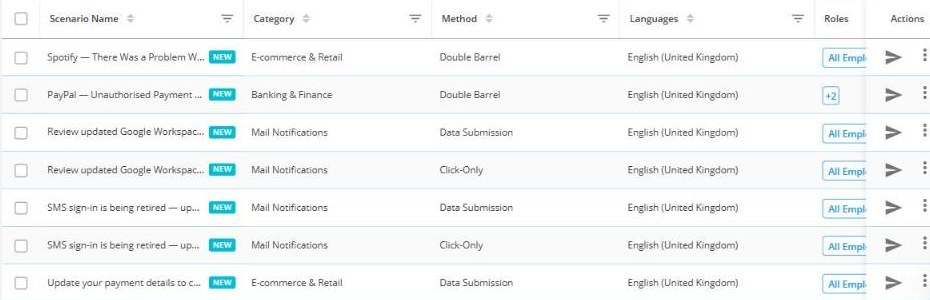
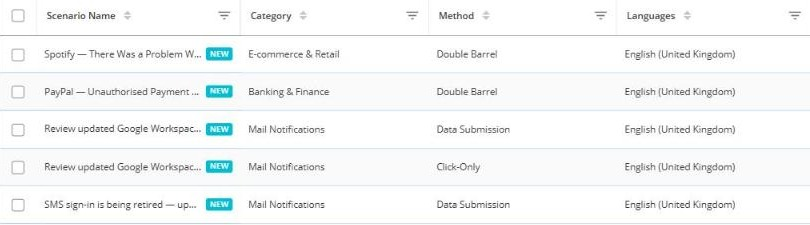
Tiklayinca buyutme, tablo ekranlari tam genislik, daha okunakli kirpim

diff --git a/style.css b/style.css
@@ -196,3 +196,21 @@ footer a{color:#cfe0f2}
 
 .srcline{font-size:.75rem;color:var(--muted);margin-top:16px}
 .figcap{font-size:.78rem;color:var(--muted);text-align:center;margin-top:10px}
+/* --- tam genislikte urun ekrani --- */
+.shotwide{max-width:1000px;margin:34px auto 0}
+.shotwide .shot img{width:100%}
+
+/* --- tiklayinca buyutme (lightbox) --- */
+.shot img{cursor:zoom-in}
+.lb{position:fixed;inset:0;background:rgba(20,30,45,.92);display:none;align-items:center;justify-content:center;z-index:999;padding:24px;cursor:zoom-out}
+.lb.acik{display:flex}
+.lb img{max-width:100%;max-height:92vh;border-radius:8px;box-shadow:0 30px 80px rgba(0,0,0,.5);background:#fff}
+.lb .kapat{position:absolute;top:18px;right:24px;color:#fff;font-size:2rem;line-height:1;font-weight:300;background:none;border:0;cursor:pointer}
+.lb .ipucu{position:absolute;bottom:20px;left:0;right:0;text-align:center;color:#b9cde0;font-size:.8rem}
+@media(max-width:700px){.lb{padding:10px}.lb img{max-height:80vh}}
+
+/* gorsel altta tam genislik: yogun tablo ekranlari icin */
+.split.altgorsel{grid-template-columns:1fr;gap:34px}
+.split.altgorsel .txt{order:0}
+.split.altgorsel .shot{max-width:1020px;margin-left:auto;margin-right:auto}
+.split.altgorsel > div:not(.txt){order:1}

diff --git a/phishing-simulation.html b/phishing-simulation.html
@@ -190,7 +190,7 @@
 </section>
 
 <section class="sec" id="how">
-  <div class="wrap split">
+  <div class="wrap split altgorsel">
     <div class="txt">
       <p class="eyebrow">How it works</p>
       <h2>One campaign, five channels, one score per channel</h2>
@@ -266,7 +266,7 @@
 </section>
 
 <section class="sec">
-  <div class="wrap split rev">
+  <div class="wrap split rev altgorsel">
     <div>
       <div class="shot">
         <div class="bar"><i></i><i></i><i></i></div>
@@ -424,5 +424,18 @@
   </div>
 </footer>
 
+
+<div class="lb" id="lb"><button class="kapat" aria-label="Kapat">&times;</button><img alt=""><div class="ipucu">Kapatmak icin herhangi bir yere tiklayin</div></div>
+<script>
+(function(){
+  var lb=document.getElementById("lb"), im=lb.querySelector("img");
+  document.querySelectorAll(".shot img").forEach(function(g){
+    g.addEventListener("click",function(){ im.src=g.currentSrc||g.src; im.alt=g.alt||""; lb.classList.add("acik"); document.body.style.overflow="hidden"; });
+  });
+  function kapa(){ lb.classList.remove("acik"); document.body.style.overflow=""; }
+  lb.addEventListener("click",kapa);
+  document.addEventListener("keydown",function(e){ if(e.key==="Escape") kapa(); });
+})();
+</script>
 </body>
 </html>

diff --git a/security-awareness-training.html b/security-awareness-training.html
@@ -194,7 +194,7 @@
 </section>
 
 <section class="sec" id="how">
-  <div class="wrap split">
+  <div class="wrap split altgorsel">
     <div class="txt">
       <p class="eyebrow">How it works</p>
       <h2>Measure, assign, prove. In that order.</h2>
@@ -447,5 +447,18 @@
   </div>
 </footer>
 
+
+<div class="lb" id="lb"><button class="kapat" aria-label="Kapat">&times;</button><img alt=""><div class="ipucu">Kapatmak icin herhangi bir yere tiklayin</div></div>
+<script>
+(function(){
+  var lb=document.getElementById("lb"), im=lb.querySelector("img");
+  document.querySelectorAll(".shot img").forEach(function(g){
+    g.addEventListener("click",function(){ im.src=g.currentSrc||g.src; im.alt=g.alt||""; lb.classList.add("acik"); document.body.style.overflow="hidden"; });
+  });
+  function kapa(){ lb.classList.remove("acik"); document.body.style.overflow=""; }
+  lb.addEventListener("click",kapa);
+  document.addEventListener("keydown",function(e){ if(e.key==="Escape") kapa(); });
+})();
+</script>
 </body>
 </html>
